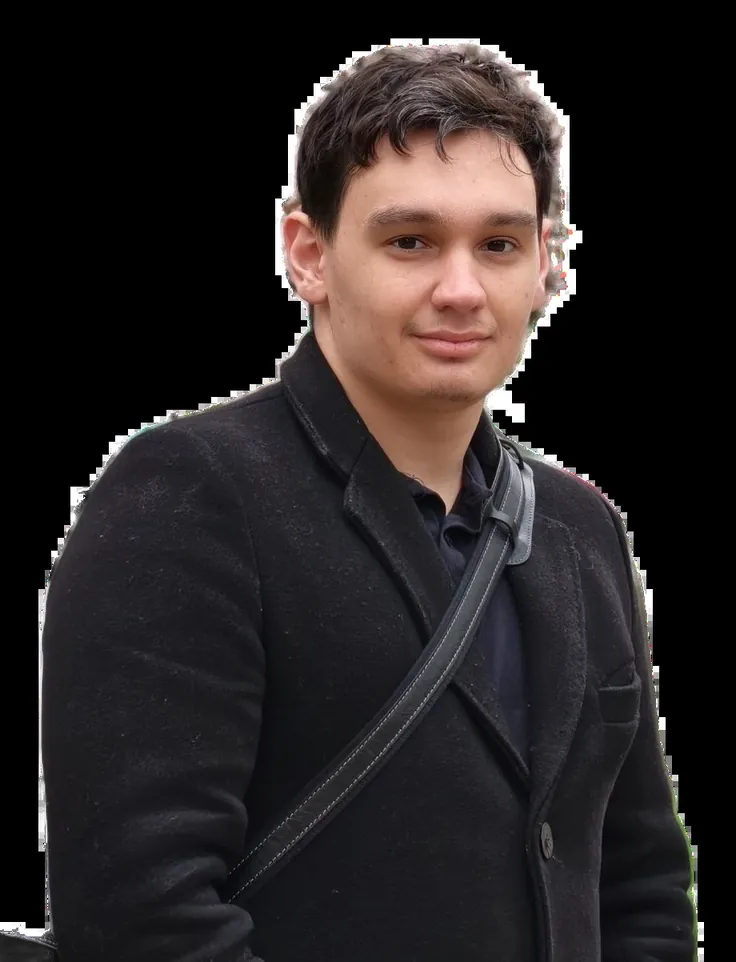
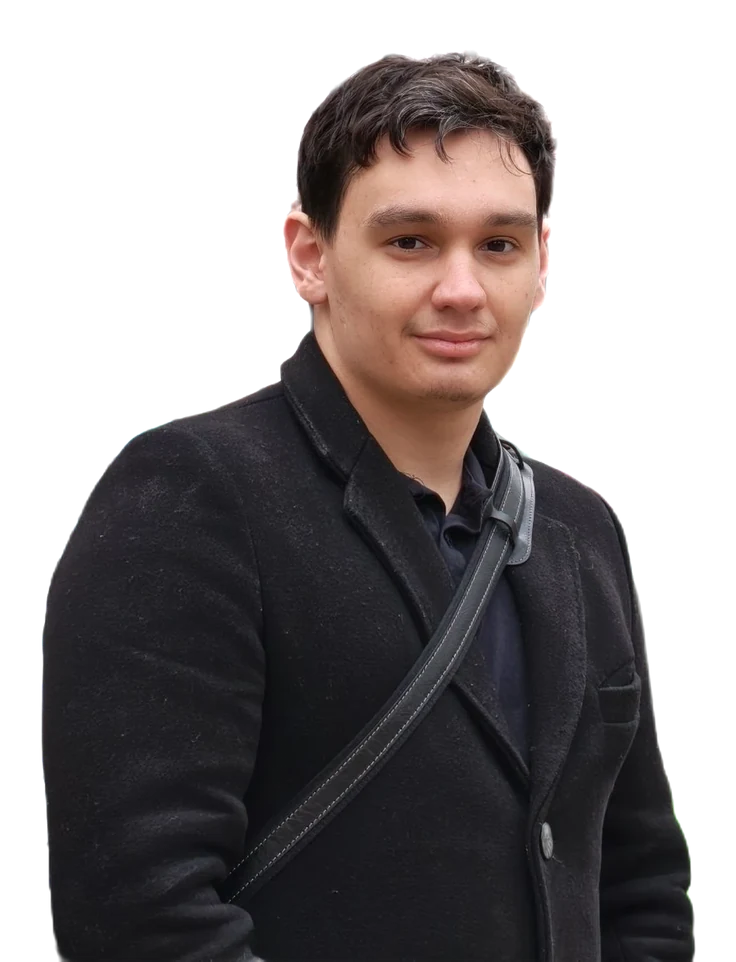
All Fix

diff --git a/assets/src/css/blog.css b/assets/src/css/blog.css
@@ -394,10 +394,9 @@ a.lang-switch{text-decoration:none;}
   display:flex; gap:20px; align-items:flex-start;
   border:var(--border-w) solid var(--line); padding:22px; margin:44px 0; background:var(--paper-dim);
 }
-/* Гибким элементом здесь является <picture>, а не <img>: без flex:0 0 auto на
-   нём фотография сжималась до двух десятков пикселей. Портретное соотношение
-   вместо квадрата — на квадратном кропе от человека остаётся один нос. */
-.post__author picture{flex:0 0 auto; display:block; width:120px;}
+/* flex:0 0 auto обязателен: без него фотография сжимается до двух десятков
+   пикселей. Портретное соотношение вместо квадрата — на квадратном кропе от
+   человека остаётся один нос. */
 .post__author img{width:120px; height:160px; object-fit:cover; object-position:50% 20%;
                   border:var(--border-w) solid var(--line); flex:0 0 auto;}
 .post__author-label{font-family:var(--font-mono); font-size:10px; letter-spacing:.1em; text-transform:uppercase; opacity:.6;}

diff --git a/content/fragments/about.html b/content/fragments/about.html
@@ -13,11 +13,12 @@
   </div>
   <div class="about__col about__col--photo">
     <div class="about__photo-frame">
-      <picture>
-        <source srcset="{{ASSET}}img/founder.webp" type="image/webp">
-        <img class="about__photo" src="{{ASSET}}img/founder.jpg" width="736" height="962"
-             loading="lazy" decoding="async" alt="George Mercer, {{FOUNDER_ALT}}">
-      </picture>
+      <!-- Без <picture> и без запасного jpg: фотография вырезана по контуру,
+           а прозрачности в jpeg не бывает — запасной файл подкладывал под
+           человека чёрный прямоугольник. webp с альфой понимают все браузеры
+           с 2020 года, обложки блога здесь давно живут без запасного. -->
+      <img class="about__photo" src="{{ASSET}}img/founder.webp" width="736" height="962"
+           loading="lazy" decoding="async" alt="George Mercer, {{FOUNDER_ALT}}">
       <span class="about__photo-tag">GEORGE MERCER<br><span class="lang-ru">ОСНОВАТЕЛЬ</span><span class="lang-en">FOUNDER</span></span>
     </div>
   </div>

diff --git a/Tools/core/blog.py b/Tools/core/blog.py
@@ -94,10 +94,7 @@ def faq_section(post, ctx):
 
 def author_box(ctx):
     return f"""<section class="post__author" data-reveal>
-    <picture>
-      <source srcset="{ctx.asset}img/founder-sm.webp" type="image/webp">
-      <img src="{ctx.asset}img/founder-sm.jpg" width="120" height="160" alt="{esc(cfg.AUTHOR_NAME)}" loading="lazy" decoding="async">
-    </picture>
+    <img src="{ctx.asset}img/founder-sm.webp" width="120" height="160" alt="{esc(cfg.AUTHOR_NAME)}" loading="lazy" decoding="async">
     <div>
       <p class="post__author-label">{ctx.L['author']}</p>
       <p class="post__author-name">{esc(cfg.AUTHOR_NAME)}</p>

diff --git a/Tools/core/theme.py b/Tools/core/theme.py
@@ -198,7 +198,7 @@ def person_node(lang):
         "@type": "Person", "@id": f"{cfg.SITE}/#george-mercer",
         "name": cfg.AUTHOR_NAME,
         "url": f"{cfg.SITE}/{cfg.LANG_PREFIX[lang]}#about",
-        "image": f"{cfg.SITE}/{cfg.ASSETS}/img/founder.jpg",
+        "image": f"{cfg.SITE}/{cfg.ASSETS}/img/founder.webp",
         "description": cfg.AUTHOR_BIO[lang],
         "jobTitle": "Independent consultant" if lang == "en" else "Независимый консультант",
         "worksFor": {"@id": f"{cfg.SITE}/#organization"},
